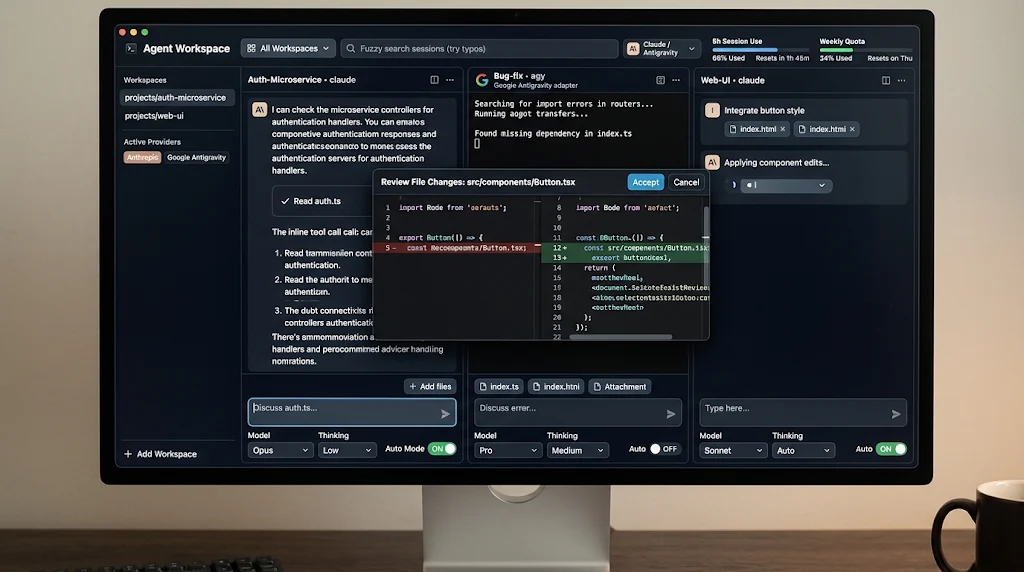
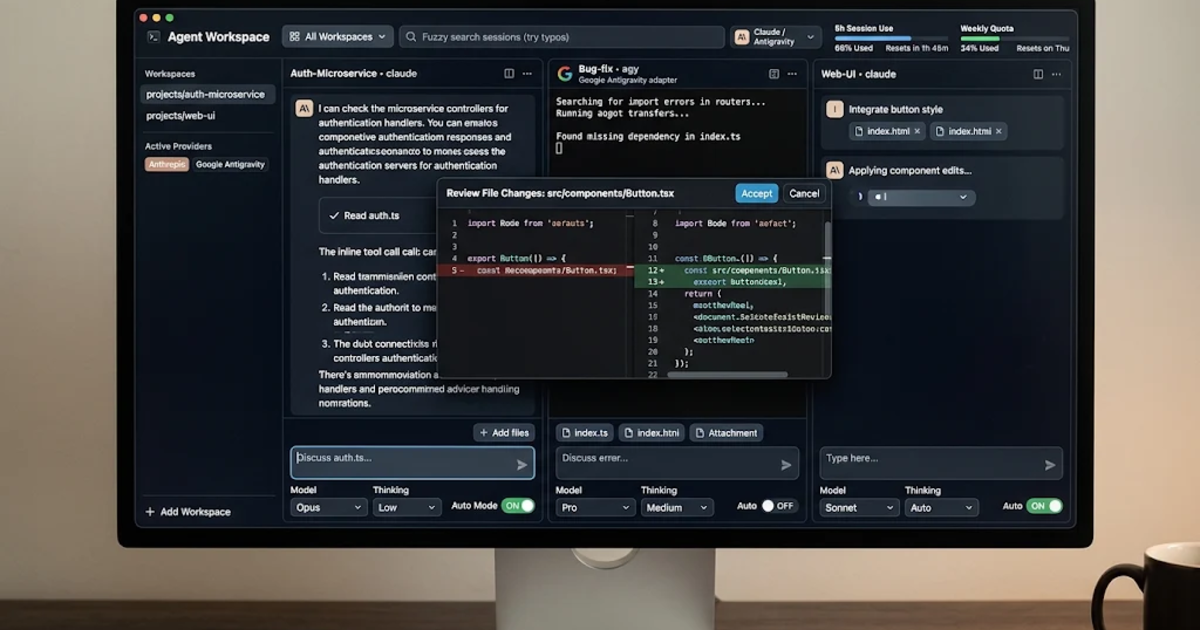
SEO pass: full head tags, JSON-LD graph, FAQ with FAQPage schema, 1200x630 OG image, manifest, llms.txt

diff --git a/site/index.html b/site/index.html
@@ -1,40 +1,98 @@
 <!doctype html>
-<html lang="en">
+<html lang="en" dir="ltr">
   <head>
     <meta charset="UTF-8" />
     <meta name="viewport" content="width=device-width, initial-scale=1.0" />
-    <link rel="icon" type="image/svg+xml" href="/favicon.svg" />
     <title>Xade: one workspace for all your AI coding agents</title>
-    <meta name="description" content="Xade is a fast native desktop app for running Claude Code and other AI coding agents side by side. Use the subscriptions you already pay for, hand tasks between providers, and review every change in a diff. macOS and Linux." />
-    <meta name="keywords" content="AI coding agents, Claude Code, multi-agent IDE, agentic development environment, Codex, Gemini CLI, local models, AI coding subscriptions, desktop app" />
-    <meta name="author" content="Xade" />
-    <link rel="canonical" href="https://xade.pro/" />
+    <meta name="description" content="Xade is a fast native desktop app, written in Rust, that runs Claude Code and other AI coding agents side by side. Use the subscriptions you already pay for and review every change in a diff. Free, open source, macOS and Linux." />
+    <meta name="keywords" content="AI coding agents, Claude Code, Claude Code GUI, multi-agent IDE, agentic development environment, run multiple AI agents, Codex, Gemini CLI, local models, AI coding subscriptions, Rust desktop app, open source" />
+    <meta name="author" content="Julio César" />
+    <meta name="robots" content="index, follow, max-image-preview:large, max-snippet:-1, max-video-preview:-1" />
+    <meta name="googlebot" content="index, follow, max-image-preview:large, max-snippet:-1" />
+    <meta name="application-name" content="Xade" />
+    <meta name="apple-mobile-web-app-title" content="Xade" />
+    <meta name="format-detection" content="telephone=no" />
+    <meta name="color-scheme" content="dark" />
     <meta name="theme-color" content="#020617" />
+    <link rel="canonical" href="https://xade.pro/" />
+    <link rel="alternate" hreflang="en" href="https://xade.pro/" />
+    <link rel="alternate" hreflang="x-default" href="https://xade.pro/" />
+    <link rel="sitemap" type="application/xml" href="/sitemap.xml" />
+    <link rel="manifest" href="/site.webmanifest" />
+    <link rel="icon" type="image/svg+xml" href="/favicon.svg" />
+    <link rel="apple-touch-icon" href="/apple-touch-icon.png" />
+    <link rel="preload" as="image" href="/og.png" fetchpriority="high" />
 
     <meta property="og:type" content="website" />
     <meta property="og:site_name" content="Xade" />
+    <meta property="og:locale" content="en_US" />
     <meta property="og:title" content="Xade: one workspace for all your AI coding agents" />
-    <meta property="og:description" content="Run Claude Code and other AI coding agents side by side in a fast native app. All your subscriptions in one place." />
+    <meta property="og:description" content="Run Claude Code and other AI coding agents side by side in a fast native Rust app. All your subscriptions in one place." />
     <meta property="og:url" content="https://xade.pro/" />
     <meta property="og:image" content="https://xade.pro/og.png" />
+    <meta property="og:image:secure_url" content="https://xade.pro/og.png" />
+    <meta property="og:image:type" content="image/png" />
+    <meta property="og:image:width" content="1200" />
+    <meta property="og:image:height" content="630" />
+    <meta property="og:image:alt" content="Xade running several AI coding agent sessions side by side with a diff review" />
     <meta name="twitter:card" content="summary_large_image" />
     <meta name="twitter:title" content="Xade: one workspace for all your AI coding agents" />
-    <meta name="twitter:description" content="Run Claude Code and other AI coding agents side by side in a fast native app." />
+    <meta name="twitter:description" content="Run Claude Code and other AI coding agents side by side in a fast native Rust app." />
     <meta name="twitter:image" content="https://xade.pro/og.png" />
+    <meta name="twitter:image:alt" content="Xade running several AI coding agent sessions side by side with a diff review" />
 
     <script type="application/ld+json">
       {
         "@context": "https://schema.org",
-        "@type": "SoftwareApplication",
-        "name": "Xade",
-        "alternateName": "X-provider Agentic Development Environment",
-        "applicationCategory": "DeveloperApplication",
-        "operatingSystem": "macOS, Linux",
-        "description": "A fast native desktop app for running several AI coding agent sessions side by side.",
-        "url": "https://xade.pro/",
-        "downloadUrl": "https://github.com/juliomatcom/xade/releases/latest",
-        "license": "https://opensource.org/licenses/MIT",
-        "offers": { "@type": "Offer", "price": "0", "priceCurrency": "USD" }
+        "@graph": [
+          {
+            "@type": "WebSite",
+            "@id": "https://xade.pro/#website",
+            "url": "https://xade.pro/",
+            "name": "Xade",
+            "description": "One workspace for all your AI coding agents.",
+            "inLanguage": "en",
+            "publisher": { "@id": "https://xade.pro/#author" }
+          },
+          {
+            "@type": "Person",
+            "@id": "https://xade.pro/#author",
+            "name": "Julio César",
+            "url": "https://github.com/juliomatcom"
+          },
+          {
+            "@type": "SoftwareApplication",
+            "@id": "https://xade.pro/#app",
+            "name": "Xade",
+            "alternateName": ["X-provider Agentic Development Environment", "Xade IDE"],
+            "applicationCategory": "DeveloperApplication",
+            "applicationSubCategory": "AI coding agent workspace",
+            "operatingSystem": "macOS, Linux",
+            "softwareRequirements": "Claude Code CLI installed and logged in, git",
+            "programmingLanguage": "Rust",
+            "description": "A fast native desktop app, written in Rust, for running several AI coding agent sessions side by side.",
+            "url": "https://xade.pro/",
+            "image": "https://xade.pro/og.png",
+            "screenshot": "https://xade.pro/og.png",
+            "downloadUrl": "https://github.com/juliomatcom/xade/releases/latest",
+            "installUrl": "https://github.com/juliomatcom/xade/releases/latest",
+            "codeRepository": "https://github.com/juliomatcom/xade",
+            "license": "https://opensource.org/licenses/MIT",
+            "isAccessibleForFree": true,
+            "author": { "@id": "https://xade.pro/#author" },
+            "sameAs": ["https://github.com/juliomatcom/xade"],
+            "featureList": [
+              "Run multiple Claude Code sessions side by side",
+              "Uses your existing CLI login, settings, MCP servers and skills",
+              "Side-by-side diff review of every change",
+              "Per-session auto-approve",
+              "Searchable local session history",
+              "Model and effort picker with context and cost meters",
+              "Native Rust app, no Electron"
+            ],
+            "offers": { "@type": "Offer", "price": "0", "priceCurrency": "USD", "availability": "https://schema.org/InStock" }
+          }
+        ]
       }
     </script>
   </head>

diff --git a/site/src/App.tsx b/site/src/App.tsx
@@ -1,5 +1,6 @@
 import { useState } from "react";
 import LazyLogo from "./LazyLogo";
+import { faq } from "./faq";
 
 const REPO = "https://github.com/juliomatcom/xade";
 const RELEASES = `${REPO}/releases/latest`;
@@ -83,7 +84,7 @@ export default function App() {
           <a href="#why" className="hidden hover:text-white sm:inline">Why Xade</a>
           <a href="#install" className="hover:text-white">Install</a>
           <a href="#download" className="hover:text-white">Download</a>
-          <a href={REPO} className="flex items-center gap-2 rounded-lg border border-edge px-3 py-1.5 text-white transition hover:border-slate-500">
+          <a href={REPO} rel="noopener" className="flex items-center gap-2 rounded-lg border border-edge px-3 py-1.5 text-white transition hover:border-slate-500">
             <GitHubIcon className="size-4" /> GitHub
           </a>
         </nav>
@@ -101,7 +102,7 @@ export default function App() {
           </p>
           <div className="mt-8 flex flex-wrap justify-center gap-3">
             <a href="#download" className="rounded-lg bg-jade px-6 py-3 text-sm font-semibold text-ink transition hover:bg-emerald-300">Download Xade</a>
-            <a href={REPO} className="flex items-center gap-2 rounded-lg border border-edge px-6 py-3 text-sm font-semibold text-white transition hover:border-slate-500">
+            <a href={REPO} rel="noopener" className="flex items-center gap-2 rounded-lg border border-edge px-6 py-3 text-sm font-semibold text-white transition hover:border-slate-500">
               <GitHubIcon /> Star on GitHub
             </a>
           </div>
@@ -211,13 +212,37 @@ export default function App() {
           </div>
         </section>
 
+        <section id="faq" className="scroll-mt-8 pb-24" aria-labelledby="faq-title">
+          <h2 id="faq-title" className="text-3xl font-semibold tracking-tight text-white">Frequently asked questions</h2>
+          <div className="mt-8 divide-y divide-edge rounded-2xl border border-edge">
+            {faq.map(([q, a]) => (
+              <details key={q} className="group p-6" open>
+                <summary className="cursor-pointer list-none text-lg font-medium text-white">
+                  <h3 className="inline">{q}</h3>
+                </summary>
+                <p className="mt-2 leading-relaxed text-slate-400">{a}</p>
+              </details>
+            ))}
+          </div>
+          <script
+            type="application/ld+json"
+            dangerouslySetInnerHTML={{
+              __html: JSON.stringify({
+                "@context": "https://schema.org",
+                "@type": "FAQPage",
+                mainEntity: faq.map(([q, a]) => ({ "@type": "Question", name: q, acceptedAnswer: { "@type": "Answer", text: a } })),
+              }),
+            }}
+          />
+        </section>
+
         <section className="pb-24" aria-label="Built from jade">
           <div className="grid items-center gap-6 overflow-hidden rounded-3xl border border-edge bg-gradient-to-br from-slab to-ink p-8 md:grid-cols-2 md:p-12">
             <div>
               <h2 className="text-3xl font-semibold tracking-tight text-white">Open source, built in the open</h2>
               <p className="mt-3 text-slate-400">Xade is MIT licensed and written in Rust. Read the code, file an issue, or send a pull request.</p>
               <div className="mt-6 flex flex-wrap gap-3">
-                <a href={REPO} className="flex items-center gap-2 rounded-lg bg-jade px-5 py-2.5 text-sm font-semibold text-ink transition hover:bg-emerald-300">
+                <a href={REPO} rel="noopener" className="flex items-center gap-2 rounded-lg bg-jade px-5 py-2.5 text-sm font-semibold text-ink transition hover:bg-emerald-300">
                   <GitHubIcon /> Star on GitHub
                 </a>
                 <a href={`${REPO}/issues`} className="rounded-lg border border-edge px-5 py-2.5 text-sm font-semibold text-white transition hover:border-slate-500">Report an issue</a>
@@ -236,7 +261,7 @@ export default function App() {
             © {new Date().getFullYear()} Julio César. Source code released under the <a href={`${REPO}/blob/main/LICENSE`} className="underline hover:text-white">MIT License</a>. Xade™ is a trademark of Julio César; the license does not grant rights to the name or logo.
           </p>
           <nav aria-label="Footer" className="flex gap-6">
-            <a href={REPO} className="flex items-center gap-1.5 hover:text-white"><GitHubIcon className="size-4" /> GitHub</a>
+            <a href={REPO} rel="noopener" className="flex items-center gap-1.5 hover:text-white"><GitHubIcon className="size-4" /> GitHub</a>
             <a href={RELEASES} className="hover:text-white">Releases</a>
             <a href={`${REPO}/blob/main/LICENSE`} className="hover:text-white">License</a>
           </nav>

diff --git a/site/src/faq.ts b/site/src/faq.ts
@@ -1,0 +1,9 @@
+export const faq: [string, string][] = [
+  ["What is Xade?", "Xade is a fast native desktop app, written in Rust, for running several AI coding agent sessions side by side. It is short for X-provider Agentic Development Environment and is pronounced \"zade\"."],
+  ["Is Xade free?", "Yes. Xade is free and open source, and its code is released under the MIT License."],
+  ["Which AI coding agents does Xade support?", "Today Xade drives Claude Code. It is designed for several providers, so handing a task from one agent to another and running local models are on the roadmap."],
+  ["Do I need API keys?", "No. Xade runs the agent CLI you already have installed and logged in, so your existing subscription, settings, CLAUDE.md files, MCP servers and skills all apply. Xade never reads or stores your credentials."],
+  ["What platforms does Xade run on?", "macOS (Apple Silicon) and Linux (x86_64 and aarch64). Linux needs a Vulkan-capable GPU driver."],
+  ["Why is Xade fast?", "It is a single native Rust binary rendered on the GPU, with no Electron or web runtime, so windows open instantly and long sessions stay smooth."],
+  ["Can I review the changes an agent makes?", "Yes. Every change appears in a side-by-side diff before it is applied. You can turn auto-approve on or off per session, and changes still show up for review afterwards."],
+];
